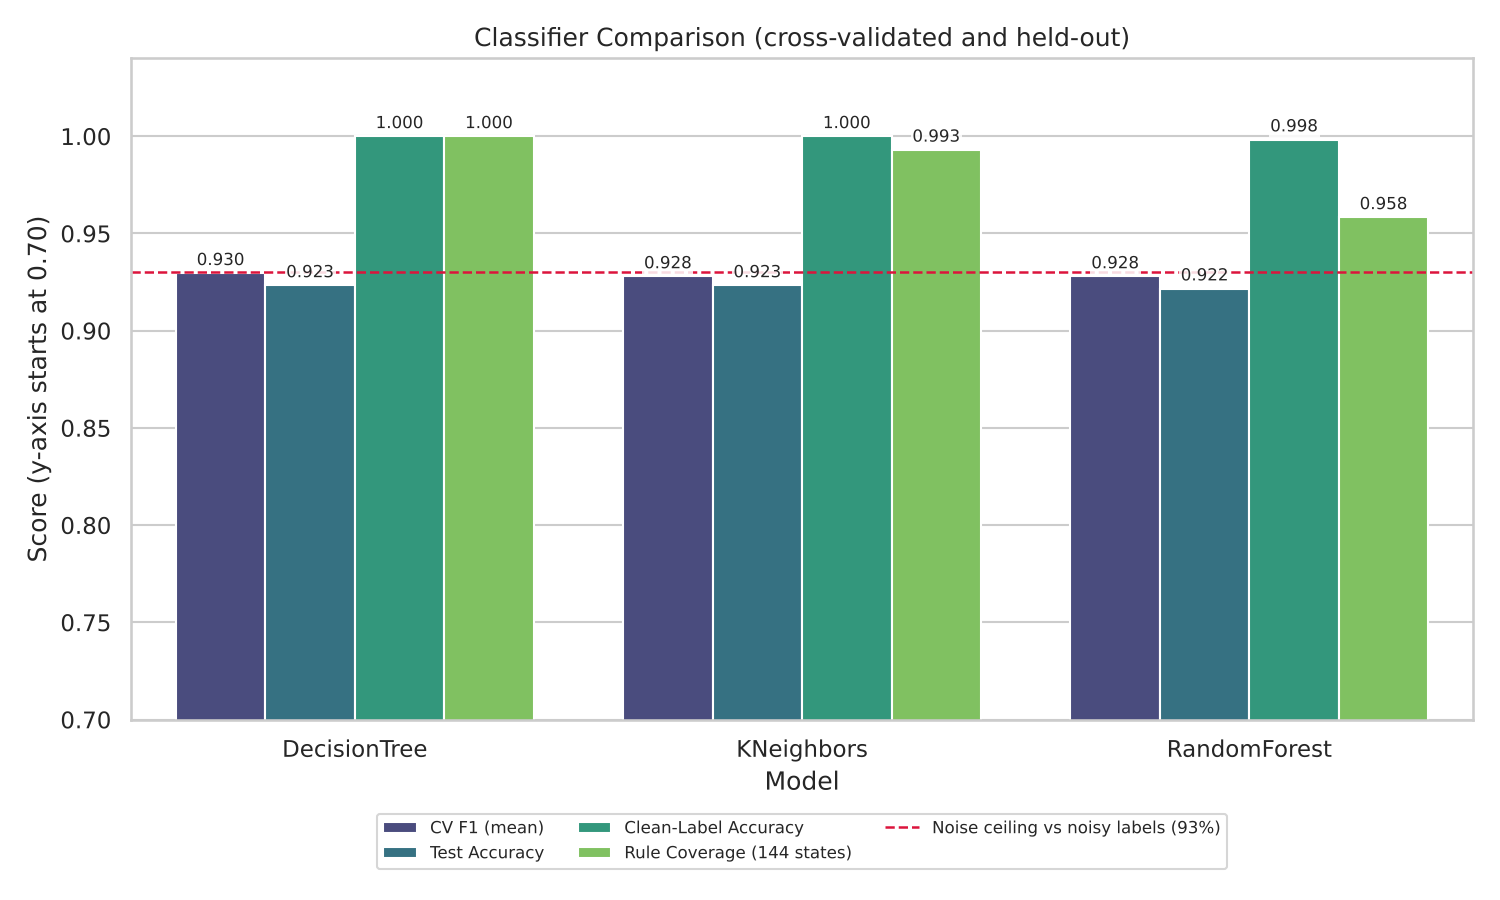
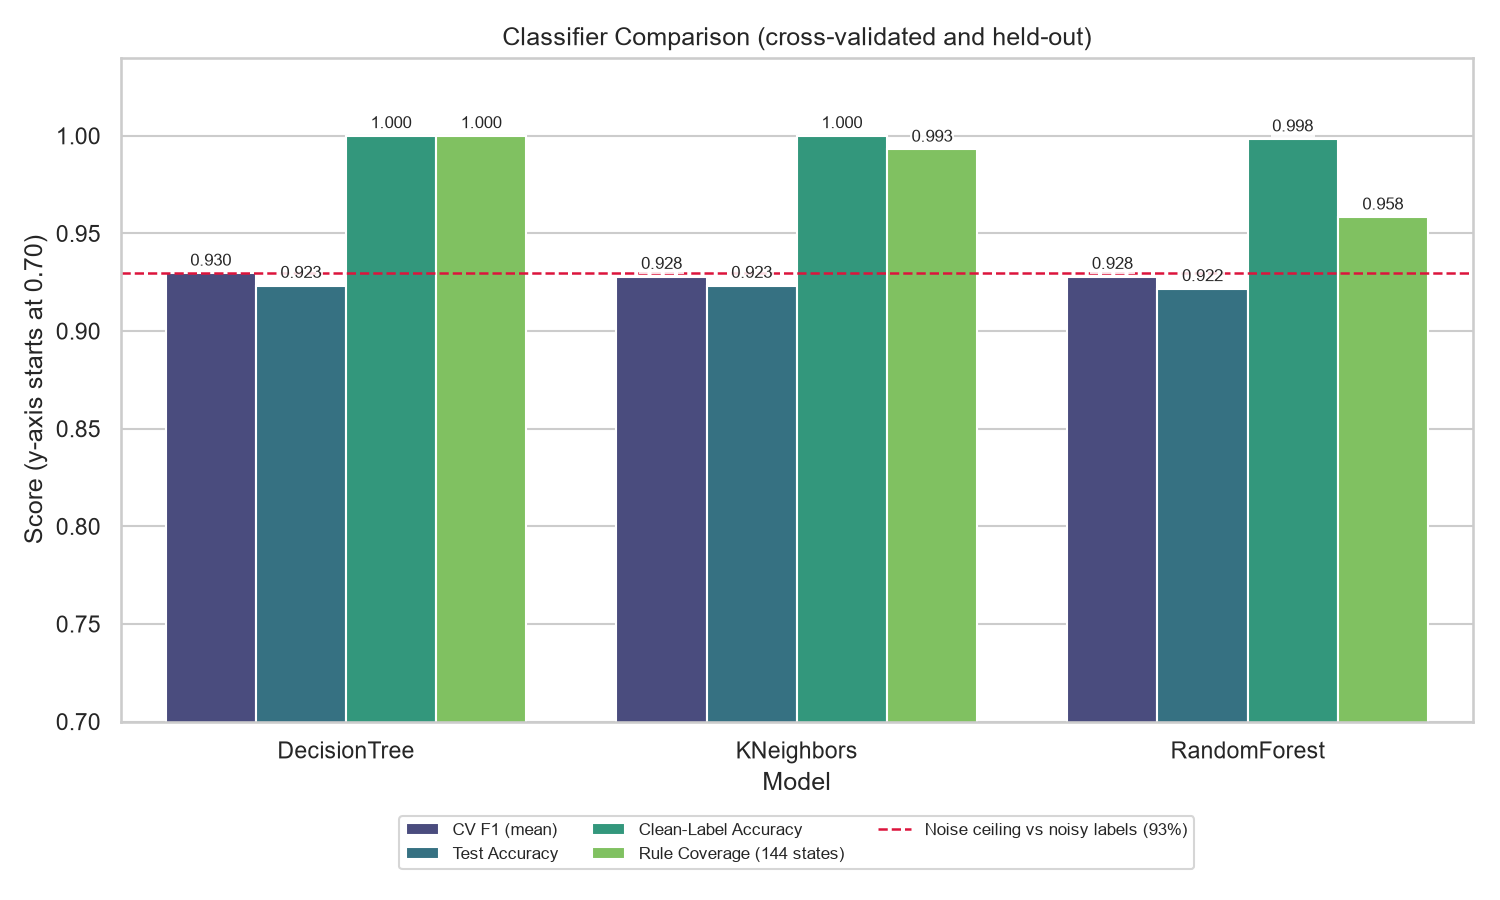
Docs: Fix minor warnings from audit (size, docstrings, imports)

diff --git a/src/actuator.py b/src/actuator.py
@@ -31,12 +31,11 @@ import matplotlib.pyplot as plt  # noqa: E402
 import pandas as pd  # noqa: E402
 
 # Make `python src/<script>.py` work as well as `python -m src.<script>`.
-import sys as _sys  # noqa: E402
 from pathlib import Path as _Path  # noqa: E402
 
 _ROOT = str(_Path(__file__).resolve().parents[1])
-if _ROOT not in _sys.path:
-    _sys.path.insert(0, _ROOT)
+if _ROOT not in sys.path:
+    sys.path.insert(0, _ROOT)
 
 from src.config import (  # noqa: E402
     ACTUATOR_EVENTS_CSV,
@@ -110,6 +109,7 @@ class DimmableBulb:
 
     def __init__(self, rated_watt=BULB_FULL_WATT, fade_rate=FADE_RATE_PCT_PER_S,
                  pwm_bits=PWM_BITS, initial="OFF"):
+        """Initialise one simulated dimmable bulb and its energy counters."""
         if fade_rate <= 0:
             raise ValueError("fade_rate must be positive.")
         if rated_watt <= 0:
@@ -305,6 +305,7 @@ def build_actuator_figure(log):
     ax1, ax2, ax3, ax4 = axes
 
     def shade(ax):
+        """Shade occupied intervals on an actuator plot axis."""
         if occupied is not None:
             ax.fill_between(time_h, 0, 1, where=occupied, step="post", alpha=0.18,
                             color="#e9c46a", transform=ax.get_xaxis_transform(),
@@ -415,6 +416,7 @@ def _bulb_svg():
 
 
 def _page(body, script):
+    """Wrap trusted body HTML and script in a minimal standalone page."""
     return (
         '<!DOCTYPE html><html><head><meta charset="utf-8">'
         '<meta name="viewport" content="width=device-width,initial-scale=1">'

diff --git a/README.md b/README.md
@@ -9,7 +9,7 @@ in pure Python with fixed seeds, so every number below is reproducible.
 
 | | |
 |---|---|
-| Deployed model | Decision Tree, **6.4 KB**, CV F1 **0.930**, held-out accuracy **92.3 %** (ceiling with 7 % label noise: 93 %) |
+| Deployed model | Decision Tree, **6.3 KB**, CV F1 **0.930**, held-out accuracy **92.3 %** (ceiling with 7 % label noise: 93 %) |
 | Correctness | Matches the control rule on **144 / 144** possible sensor states; **0** occupied time-steps switched OFF |
 | Energy saving | **41.8 %** vs a motion-sensor switch · **66.8 %** vs an always-on bulb |
 | Actuator | Simulated 8-bit PWM LED driver, 50 %/s soft fade, MQTT-style commands; fading changes energy by only +0.002 % |
